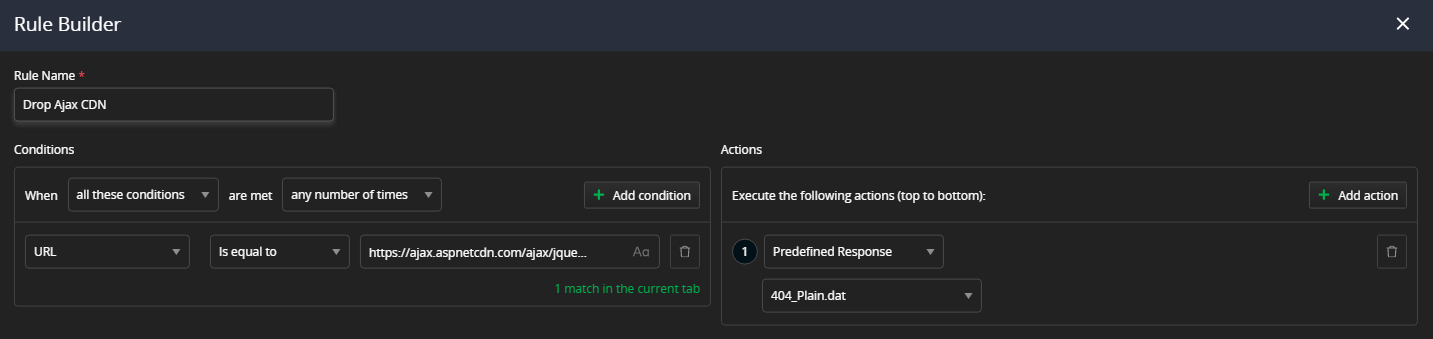
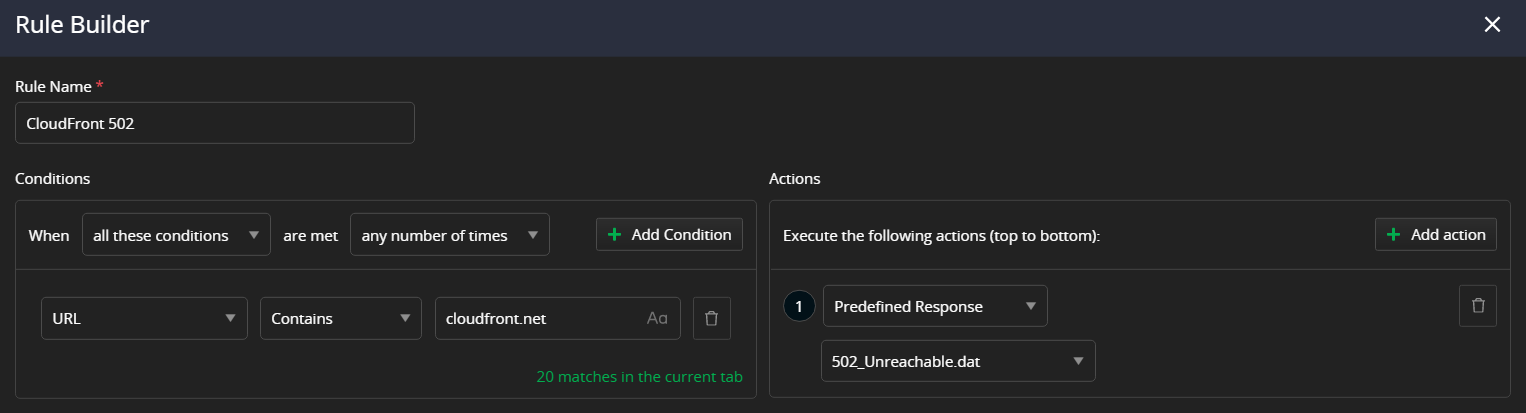
docs: real-life example

diff --git a/knowledge-base/real-life-fiddler-everywhere-usage.md b/knowledge-base/real-life-fiddler-everywhere-usage.md
@@ -25,7 +25,7 @@ Fiddler Everywhere is far just from being another proxy tool. The latest version
 
 Fiddler Everywhere can help multiple different personas. A **quality engineer** can brute-force test other cases - for example, different rules for testing failing CSS, network delays, failed access to endpoints, and so on. A **technical support engineer** can reproduce client scenarios - for example, the client shares that he is under a restricted corporate network that has no direct access to AWS or other endpoints. A **developer** can receive pre-recorded sessions that demonstrate the above scenarios and helps them in debugging and implementing the proper solution. A **web developer** can use Fiddler Everywhere to optimize their site by testing and improving the implementations related to font loading, CDN fallbacks, third-party library, resource usage, testing different UI designs on the fly, and so on. A **security officer** can use Fiddler Everywhere to examine the generated traffic for possible leaks of sensitive data, test GDPR policies, and catch unwanted requests (e.g., by malware or third-party actors). An **end-user** can use Fiddler Everywhere to capture specific issue that he faces with an app and share it with the application creators for further investigation.
 
-And the discussed case above barely scratches the surface - there is an ocean of possibilities of what you can do and achieve with Fiddler Everywhere.
+The discussed case above barely scratches the surface - there is an ocean of possibilities of what you can do and achieve with Fiddler Everywhere.
 
 ## Real-Life Examples
 
@@ -38,31 +38,33 @@ The main functionality of Fiddler Everywhere is as follows:
  - Inspect different sessions side-by-side through the **Compare** tab.
  - Preserve captured sessions, compose requests, create rules for later usage and share them with collaborators.
 
+The listed above functionalities can be used for solving a multitude of real-life scenarios handled daily by developers, quality assurance engineers, support personas, or anyone that virtually has to work with network data. 
 
-
-### Capturing, Testing, and Mocking
+### Capturing, Inspecting, Testing, and Mocking
 
 One of the common scenarios for Fiddler Everywhere usage combines capturing traffic and making modifications in the requests/responses on the fly so that you can test different cases and reproduce various issues.
 
-Let's assume that a client of your site is behind a corporate network with strict restrictions. It might be a security tool that restricts access to several domains, including the ability to open a specific Ajax CDN. Or it might be a network connection issue, resulting in the request to the CDN to drop or to be extremely slow. You know your site is using the CDN to render the UI for the login endpoints, so you wonder if the web team handles these cases. Let's use Fiddler Everywhere to mock the behavior.
+Let's assume that a client of your site is behind a corporate network with strict restrictions. It might be a security tool that restricts access to several domains, including the ability to open a specific CDN. Or it might be a network connection issue, resulting in the request to the CDN to drop or to be extremely slow. You know your site is using the CDN to render the site UI, so you wonder how your page will look in similar conditions. Let's use Fiddler Everywhere to mock the behavior.
 
-1. Start capturing with Fiddler Everywhere and test your login page without any modifications. 
+- Start capturing with Fiddler Everywhere and test your login page without any modifications. For example, let's use the Fiddler Everywhere documentation site at https://docs.telerik.com/fiddler-everywhere. 
 
-    For example, let's use the Telerik login page at https://www.telerik.com/login/v2/telerik#login. 
-    ![Telerik login page](../images/kb/real-life-cases/telerik-login-initial-page.png)
+Immediately, we can extract information on how the page is working and understand that the entered URL is not the canonical endpoint and that we are redirected (status 301) to https://docs.telerik.com/fiddler-everywhere/introduction.
 
-    Upon the page loading, you will notice that the Ajax CDN is used to load the JQuery library.
-    ![Telerik login endpoints](../images/kb/real-life-cases/jquery-no-rules.png)
+![Fiddler Everywhere redirect](../images/kb/real-life-cases/fe-docs-redirect.png)
 
-1. Now that we noticed the CDN endpoints, we can break the login process easily. Note that we will only break things locally without the need to break the production services on Telerik.com or the CDN server.
+Scrolling a bit further reveals several sessions fetching resources from Cloudfront CDN (an Amazon content distribution service).
 
-    1. In Fiddler Everywhere, right-click on the Cognito session and choose **Add New Rule**. That will automatically add a new rule in the **Rules** tab.
+![Sessions to Cloudfront](../images/kb/real-life-cases/fe-docs-resources-cloudfront.png)
 
-    1. Rename your rule, leave the condition to match the Ajax CDN endpoint, and change the action with predefined response 404. Press **Save** to exit the rules builder.
+- Now that we noticed the CDN endpoints, we can break the page UI easily. Note that we will only break things locally without the need to modify or halt the production services on Telerik.com or the CDN server.
 
-        ![Rule to drop the CDN](../images/kb/real-life-cases/fe-rule-block-cdn.png)
+    1. In Fiddler Everywhere, right-click on the chosen CDN session and choose **Add New Rule**. That will automatically add a new rule in the **Rules** tab. Alternatively, create your own rule with custom match conditions and actions.
 
-        >tip For demonstration purposes, we choose an action with predefined response 404. However, you can use different actions like non-graceful close, delay (in milliseconds), custom response, etc. The **Rules builder** is potent and comes with various conditions and actions.
+    1. Rename your rule, leave the condition to match the Cloudfront CDN endpoint, and change the action with predefined response 502 (Unreachable). Press **Save** to exit the rules builder.
+
+        ![Rule that mocks 502 response for the CDN](../images/kb/real-life-cases/fe-rule-block-cdn.png)
+
+        >tip For demonstration purposes, we choose an action with predefined response 502. However, you can use different actions like non-graceful close, delay (in milliseconds), custom response, etc. The **Rules builder** is potent and comes with various conditions and actions.
 
   Note that the newly created rule is automatically placed at the bottom of your list of rules. If you have multiple active rules, you need to explicitly order them to promote the rules that are non-blocking and demote the rules that have blocking consequences (basically, all rules that depend on the response are blocking). 
   
@@ -70,14 +72,14 @@ Let's assume that a client of your site is behind a corporate network with stric
 
         ![Active rules](../images/kb/real-life-cases/fe-rule-priority-and-activation.png)
 
-    1. When ready, turn on Live Traffic capturing, go back to your browser and retry the login at [https://www.telerik.com/login/v2/telerik#login](https://www.telerik.com/login/v2/telerik#login). The page load will fail now that the Ajax CDN endpoint returns 404. 
-
-        ![Login error at Telerik.com](../images/kb/real-life-cases/telerik-login-fail.png)
+    1. When ready, turn on Live Traffic capturing, go back to your browser and retry the login at [https://docs.telerik.com/fiddler-everywhere](https://docs.telerik.com/fiddler-everywhere). As expected, the loaded page will lack several styles and fonts that were required from the CDN. Luckily, the Telerik team provided fail-safe CSS styles that still render the site readable.
 
 
-The login test demonstrates how easily, within a few minutes, with the help of Fiddler Everywhere traffic capturing and rules, we can test various scenarios. Subsequently, once an issue or a pattern is determined, we can save the sessions and use them for further investigation or share them with collaborators.
+
+The above test demonstrates how easily, within a few minutes, with the help of Fiddler Everywhere traffic capturing and rules, we can test various scenarios, reverse engineer a stite logic and structure, or simply inspect different aspects and functionalities. Subsequently, once an issue or a pattern is determined, we can save the sessions and use them for further investigation or share them with collaborators.
 
 Interested in learning more? Checkout the following YouTube videos for more practical examples and demonstrations:
+
 
 https://www.youtube.com/watch?v=bV2oSyQHQ0g
 https://www.youtube.com/watch?v=_PFWwmkxw-g
@@ -88,19 +90,17 @@ https://www.youtube.com/watch?v=CE_J4knF2ho
 ### Using Statistical Data and Timings
 
 
-Technically, Fiddler Everywhere allows you to capture HTTP/HTTPS traffic, make modifications, mock server behavior, compose requests, and so on. All these features generate a **lot** of HTTP session data that was initially available only in its raw form through the Fiddler's Request and Response inspectors. The community requested a more elaborate and structured way to access some of the data, and the team delivered! With Fiddler Everywhere version 2.x.x and above, a new exciting tab called **Overview** was made available.
+Technically, Fiddler Everywhere allows you to capture HTTP/HTTPS traffic, make modifications, mock server behavior, compose requests, and so on. All these features generate a **lot** of HTTP session data that was initially available only in its raw form through the Fiddler's Request and Response inspectors. The community requested a more elaborate and structured way to access some of the data, and the Fiddler team delivered! We will talk a bit about the exciting tab called **Overview**.
 
-Let's assume that our page loads unexpectedly slowly for some reason, and we want to investigate what's causing the issue. Our demonstration uses the Telerik login page, as in the example in the previous section. To simulate the unexpected slow loading of resources, we will create a rule that delays the Ajax CDN (as in the last example).
+Let's assume that our page loads unexpectedly slowly for some reason, and we want to investigate what's causing the issue. Our demonstration uses the Fiddler Everywhere documentation landing page, as in the example in the previous section. To simulate the unexpected slow loading of resources, we will create a rule that mocks unexpected behavour byt the Cloudfront CDN (similar to the prevoius example).
 
-1. Start capturing with Fiddler Everywhere and test the Telerik login page at https://www.telerik.com/login/v2/telerik#login. 
+1. Create a rule that delays the Cloudfront CDN by 2.5 seconds. Ensure that the rule is active. 
 
-    ![Telerik login page](../images/kb/real-life-cases/telerik-login-initial-page.png)
+    ![Delay Cloudfront CDN](../images/kb/real-life-cases/fe-rule-delay-cdn.png)
 
-1. Create a rule that delays the Ajax CDN by 2.5 seconds.
+1. When ready, turn off Live Traffic capturing, clean all plreviously captured traffic, and use the **Open Browser** option with [https://docs.telerik.com/fiddler-everywhere](https://docs.telerik.com/fiddler-everywhere).
 
-    ![Delay CDN](../images/kb/real-life-cases/fe-rule-delay-cdn.png)
-
-1. When ready, turn on Live Traffic capturing (with the created rule being active), go back to your browser and retry the login at [https://www.telerik.com/login/v2/telerik#login](https://www.telerik.com/login/v2/telerik#login)
+>tip The **Open Browser** option uses a preconfigured browser instance that goes through the Fiddler proxy. This is very convinient for testing a specific site without having to capture all the system traffic (which can be a lot and can polute your Live Traffic list). Opening a preconfigured browser instance will also spare you the need to explicitly clear the cache from your browser. 
   
 As a result, the login page will load with unwanted delay. In a real-life scenario, we can track which request/response has a longer duration (through the **Duration** column in the **Live Traffic** list of captured sessions) and then observe the **Overview** for clues.
 
